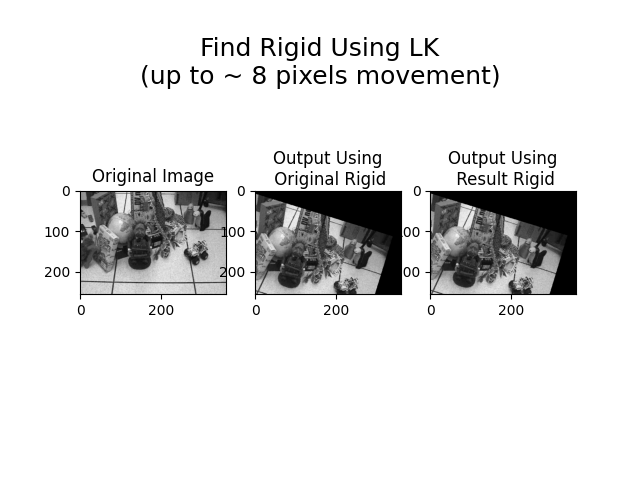
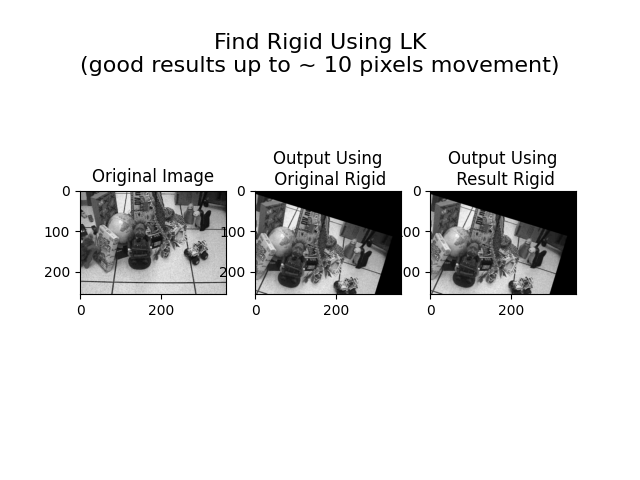
fixed 'imageWarping' method

Changed region(s): [[0.125, 0.0625, 0.875, 0.1875], [0.7188, 0.4062, 0.75, 0.4375], [0.4375, 0.4375, 0.4688, 0.4688]]

diff --git a/ex3_main.py b/ex3_main.py
@@ -99,16 +99,14 @@ def findTranslationLKDemo():
     img_path = 'input/Dense_Motion_A.jpg'
     orig_img = np.array(cv2.cvtColor(cv2.imread(img_path), cv2.COLOR_BGR2GRAY))
     rows, cols = orig_img.shape
-    img2 = np.array(np.zeros((rows, cols)))
-    orig_warping_mat = np.array([[1, 0, 5],
-                                 [0, 1, 8],
-                                 [0, 0, 1]])
-    warped_img = warpImages(orig_img, img2, orig_warping_mat)
+    orig_warping_mat = np.float32([[1, 0, 5],
+                                   [0, 1, 8]])
+    warped_img = cv2.warpAffine(orig_img, orig_warping_mat, (cols, rows))
     result = findTranslationLK(orig_img, warped_img)
     # Plot Warping Output Using Original Translation VS Result Translation
-    warped_using_res = warpImages(orig_img, np.zeros(orig_img.shape), result)
+    warped_using_res = cv2.warpAffine(orig_img, np.float32(result[0:2]), (cols, rows))
     f, ax = plt.subplots(1, 3)
-    plt.suptitle("\nFind Translation Using LK\n(up to ~ 8 pixels movement)", size=18)
+    plt.suptitle("\nFind Translation Using LK\n(good results up to ~ 10 pixels movement)", size=16)
     ax[0].set_title('Original Image')
     ax[1].set_title('Output Using\n Original Translation', loc='center', wrap=True)
     ax[2].set_title('Output Using\n Result Translation', loc='center', wrap=True)
@@ -124,17 +122,15 @@ def findRigidLKDemo():
     img_path = 'input/Dense_Motion_A.jpg'
     orig_img = cv2.cvtColor(cv2.imread(img_path), cv2.COLOR_BGR2GRAY)
     rows, cols = orig_img.shape
-    img2 = np.array(np.zeros((rows, cols)))
     theta = 0.3
-    orig_warping_mat = np.array([[np.cos(theta), -np.sin(theta), -5],
-                                 [np.sin(theta), np.cos(theta), 8],
-                                 [0, 0, 1]])
-    warped_img = warpImages(orig_img, img2, orig_warping_mat)
+    orig_warping_mat = np.float32([[np.cos(theta), -np.sin(theta), -5],
+                                   [np.sin(theta), np.cos(theta), 8]])
+    warped_img = cv2.warpAffine(orig_img, orig_warping_mat, (cols, rows))
     result_warping_mat = findRigidLK(orig_img, warped_img)
     # Plot Warping Output Using Original Translation VS Result Translation
-    warped_using_res = warpImages(orig_img, np.zeros(orig_img.shape), result_warping_mat)
+    warped_using_res = cv2.warpAffine(orig_img, np.float32(result_warping_mat[0:2]), (cols, rows))
     f, ax = plt.subplots(1, 3)
-    plt.suptitle("\nFind Rigid Using LK\n(up to ~ 8 pixels movement)", size=18)
+    plt.suptitle("\nFind Rigid Using LK\n(good results up to ~ 10 pixels movement)", size=16)
     ax[0].set_title('Original Image')
     ax[1].set_title('Output Using\n Original Rigid', loc='center', wrap=True)
     ax[2].set_title('Output Using\n Result Rigid', loc='center', wrap=True)
@@ -151,14 +147,13 @@ def findTranslationCorrDemo():
     orig_img = cv2.cvtColor(cv2.imread(img_path), cv2.COLOR_BGR2GRAY)
     rows, cols = orig_img.shape
     u, v = 10, 50
-    orig_warping_mat = np.array([[1, 0, u],
-                                 [0, 1, v],
-                                 [0, 0, 1]])
-    warped_img = warpImages(orig_img, np.array(np.zeros((rows + v + 5, cols + u + 5))), orig_warping_mat)
+    orig_warping_mat = np.float32([[1, 0, u],
+                                   [0, 1, v]])
+    warped_img = cv2.warpAffine(orig_img, orig_warping_mat, (cols + u + 5, rows + v + 5))
     # Get result warping mat (3 X 3) using orig_img and warped_img
     result_warping_mat = findTranslationCorr(orig_img, warped_img)
     # Plot Warping Output Using Original Translation VS Result Translation
-    warped_using_res = warpImages(orig_img, np.array(np.zeros((rows + v + 5, cols + u + 5))), result_warping_mat)
+    warped_using_res = cv2.warpAffine(orig_img, np.float32(result_warping_mat[0:2]), (cols + u + 5, rows + v + 5))
     f, ax = plt.subplots(1, 3)
     plt.suptitle("\nFind Translation Using Corr", size=18)
     ax[0].set_title('Original Image')
@@ -177,14 +172,13 @@ def findRigidCorrDemo():
     orig_img = cv2.cvtColor(cv2.imread(img_path), cv2.COLOR_BGR2GRAY)
     rows, cols = orig_img.shape
     u, v, theta = -5, 15, 0.3
-    orig_warping_mat = np.array([[np.cos(theta), -np.sin(theta), u],
-                                 [np.sin(theta), np.cos(theta), v],
-                                 [0, 0, 1]])
-    warped_img = warpImages(orig_img, np.array(np.zeros((rows + v + 5, cols + u + 5))), orig_warping_mat)
+    orig_warping_mat = np.float32([[np.cos(theta), -np.sin(theta), u],
+                                   [np.sin(theta), np.cos(theta), v]])
+    warped_img = cv2.warpAffine(orig_img, orig_warping_mat, (cols + u + 5, rows + v + 5))
     # Get result warping mat (3 X 3) using orig_img and warped_img
     result_warping_mat = findRigidCorr(orig_img, warped_img)
     # Plot Warping Output Using Original Translation VS Result Translation
-    warped_using_res = warpImages(orig_img, np.array(np.zeros((rows + v + 5, cols + u + 5))), result_warping_mat)
+    warped_using_res = cv2.warpAffine(orig_img, np.float32(result_warping_mat[0:2]), (cols + u + 5, rows + v + 5))
     f, ax = plt.subplots(1, 3)
     plt.suptitle("\nFind Rigid Using Corr", size=18)
     ax[0].set_title('Original Image')
@@ -207,20 +201,20 @@ def imageWarpingDemo(img_path):
     img_path1 = 'input/sphere1.jpg'
     img1 = np.array(cv2.imread(img_path1, 0))
     rows, cols = img1.shape
-    img2 = np.array(np.zeros((rows * 2, cols)))
-    mine_warp_matrix = [[1, 2, 0], [2, 1, 0], [0, 2, 1]]
-    mine_warping_res = warpImages(img1, img2, mine_warp_matrix)
-    cv2_warp_matrix = np.float32([[1, 2, 0],
-                                  [2, 1, 0]])
-    # warpAffine get (cols, rows) shape and not (rows, cols) as regular
-    cv2_warping_res = cv2.warpAffine(img1, cv2_warp_matrix, (cols, rows * 2))
+    u, v = 10, 50
+    warping_mat = np.float32([[1, 0, u],
+                                   [0, 1, v],
+                                   [0, 0, 1]])
+    img2 = cv2.warpAffine(img1, np.float32(warping_mat[0:2]), (cols + u + 5, rows + v + 5))
+    result = warpImages(img1, img2, warping_mat)
     f, ax = plt.subplots(1, 3)
-    ax[0].set_title('Original Image')
-    ax[1].set_title('Mine Output')
-    ax[2].set_title('CV2 Output')
+    plt.suptitle("\nImage Warping", size=18)
+    ax[0].set_title('Image 1')
+    ax[1].set_title('Image 2')
+    ax[2].set_title('Result Output')
     ax[0].imshow(img1, cmap='gray')
-    ax[1].imshow(mine_warping_res, cmap='gray')
-    ax[2].imshow(cv2_warping_res, cmap='gray')
+    ax[1].imshow(img2, cmap='gray')
+    ax[2].imshow(result, cmap='gray')
     plt.show()
 
 

diff --git a/ex3_utils.py b/ex3_utils.py
@@ -383,13 +383,17 @@ def warpImages(im1: np.ndarray, im2: np.ndarray, T: np.ndarray) -> np.ndarray:
     :return: warp image 2 according to T and display both image1
     and the wrapped version of the image2 in the same figure.
     """
-    for i in range(0, im2.shape[0]):
-        for j in range(0, im2.shape[1]):
-            new_coordinates = np.linalg.inv(T).dot(np.array([j, i, 1]))
+    result = np.zeros(im1.shape)
+    for i in range(0, result.shape[0]):
+        for j in range(0, result.shape[1]):
+            # Usually we use inverse matrix of T which is T^1 (using np.linalg.inv(T))
+            # but we want to perform warping backwards so we use (T^1)^1 which is T
+            # [since p2=(T^1)*p1 we get T*p2=T*(T^1)*p1 = T*p2=p1]
+            new_coordinates = T.dot(np.array([j, i, 1]))
             new_j, new_i = int(new_coordinates[0]), int(new_coordinates[1])
-            if 0 <= new_i < im1.shape[0] and 0 <= new_j < im1.shape[1]:
-                im2[i, j] = im1[new_i, new_j]
-    return im2.astype(im1.dtype)
+            if 0 <= new_i < im2.shape[0] and 0 <= new_j < im2.shape[1]:
+                result[i, j] = im2[new_i, new_j]
+    return result
 
 
 # --------------------------------------- Gaussian and Laplacian Pyramids ---------------------------------------
